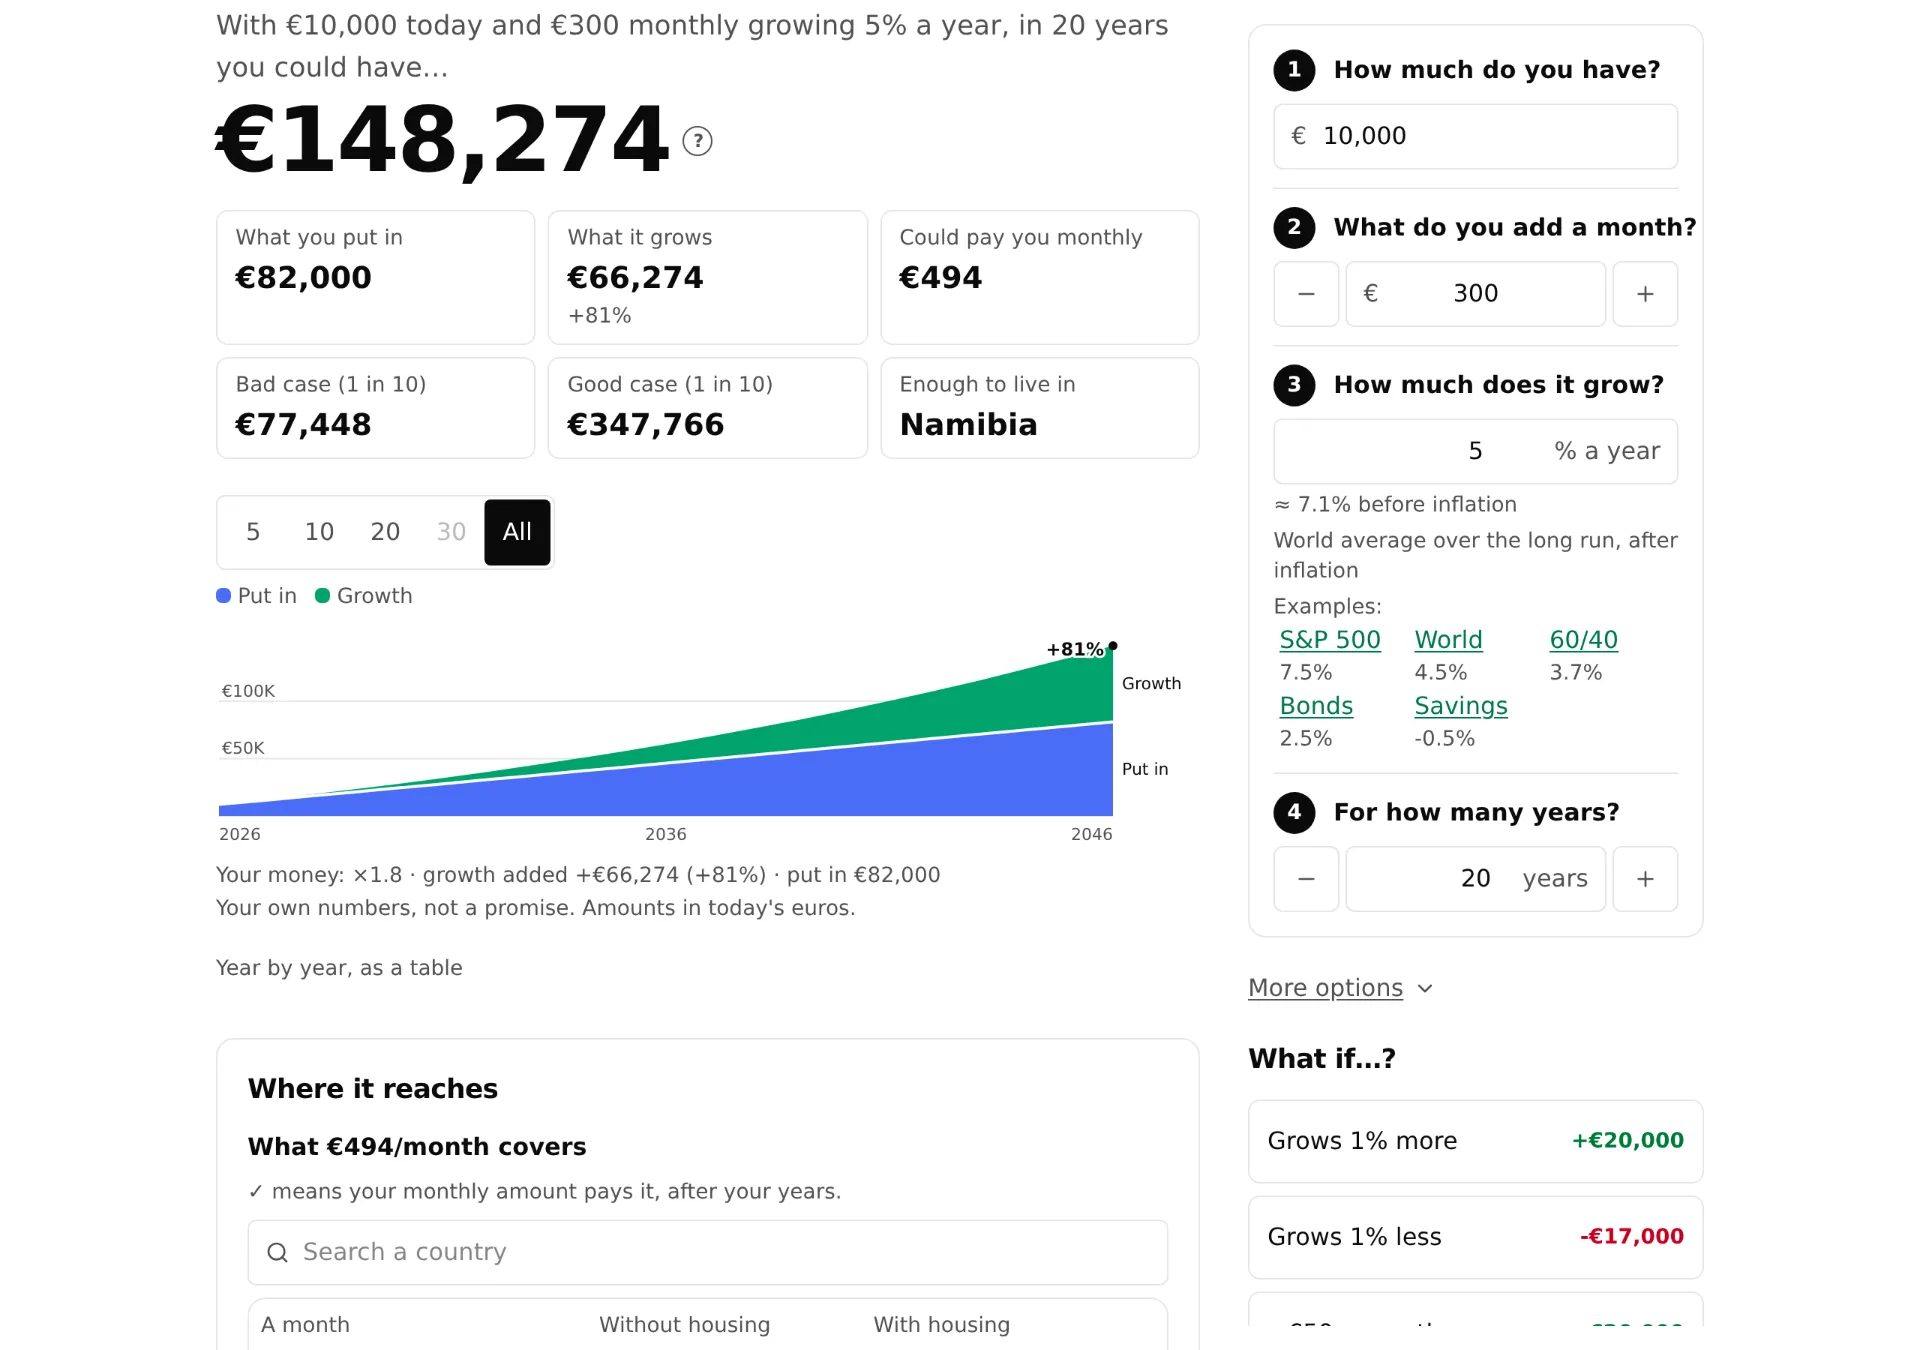
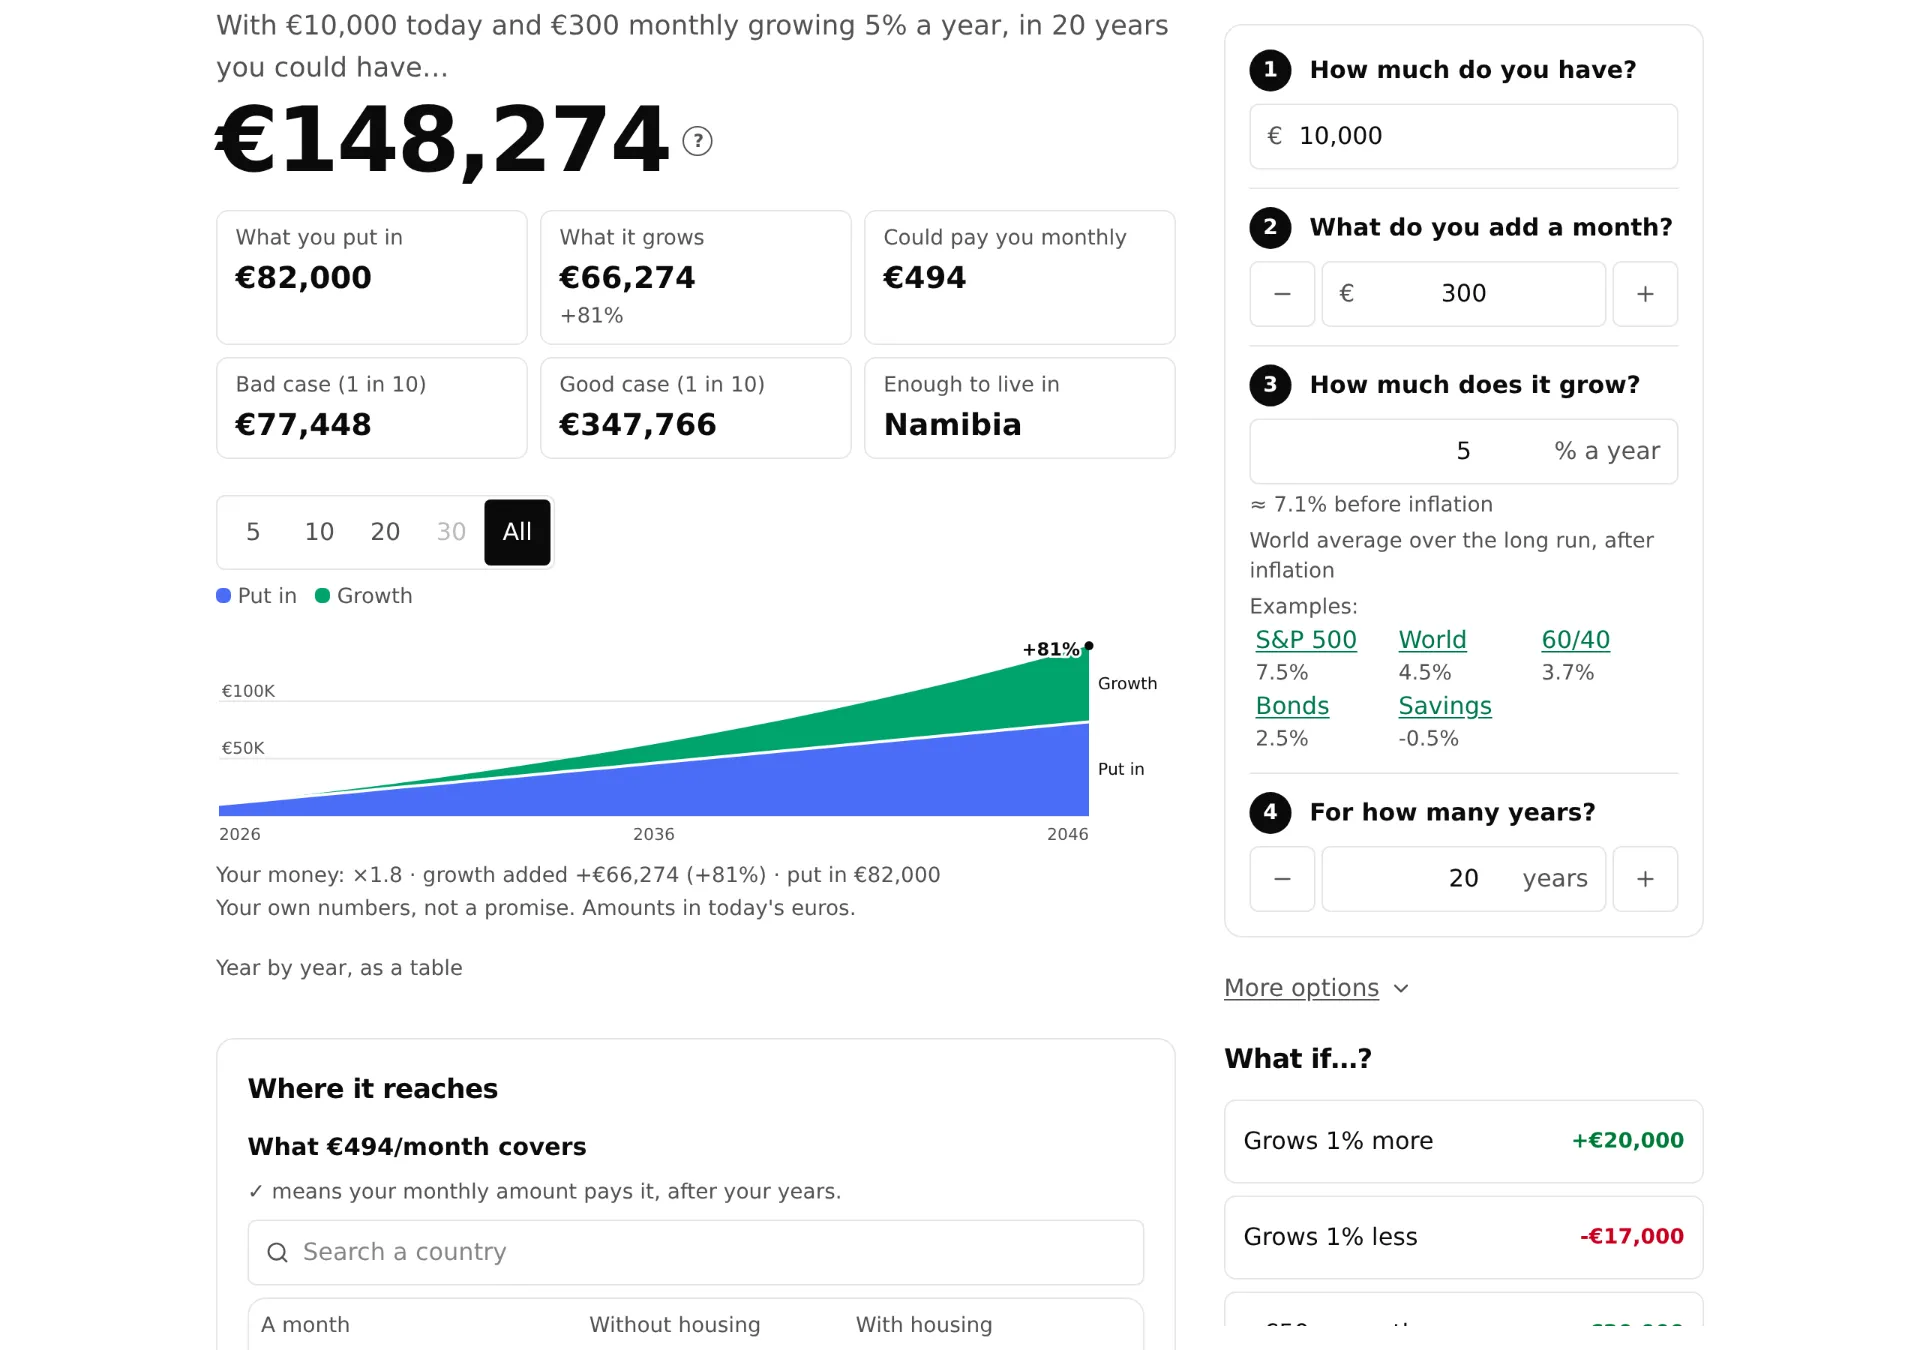
Wealth Lens: screenshots of the comfort round, EN and ES at 360, 1366 and 1920 px
The start, the first result, the edit panel open on a phone and a live
change (+€50 a month, the figures that moved tinted for a moment). The
round 12 and steps screenshots, no longer what the page looks like, are
gone; the hub's pictures are retaken with the 20rem column.

Claude-Session: https://claude.ai/code/session_01BcV4Bj22BrAC8vej9vmEnb

diff --git a/projects/wealth-lens/README.md b/projects/wealth-lens/README.md
@@ -138,7 +138,7 @@ cambiar. Todo lo visible está en palabras simples: "real", "nominal",
   4. **Tras el primer resultado, según el ancho de la ventana**:
      - 1440 px o más: tres columnas. A la izquierda, estrecha y a la vista
        al desplazar, *What if…?* como lista; en el centro, la más ancha
-       (768 px a 1440), el resultado; a la derecha, estrecha y a la vista,
+       (752 px a 1440), el resultado; a la derecha, estrecha y a la vista,
        los cuatro pasos en versión reducida y *More options*. La cabecera
        y el pie se ensanchan con ellas.
      - De 1024 a 1439 px: dos columnas, el resultado a la izquierda y, a la
